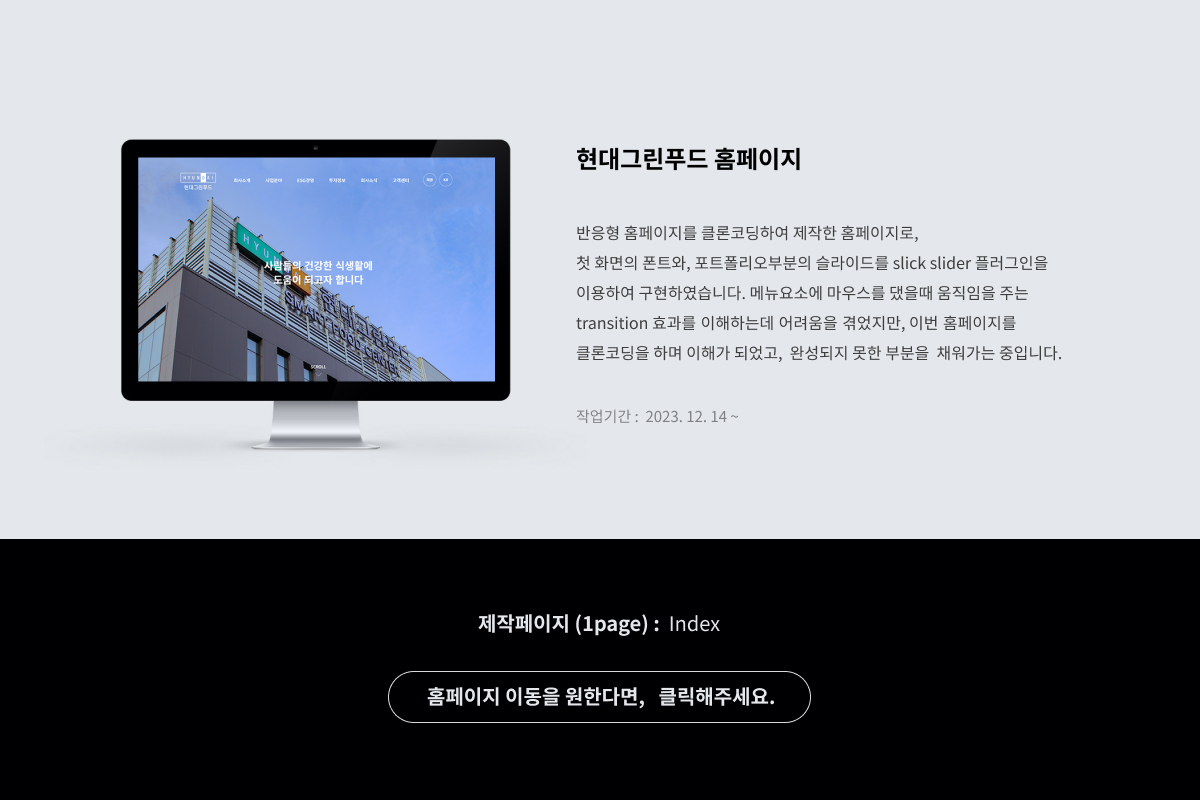
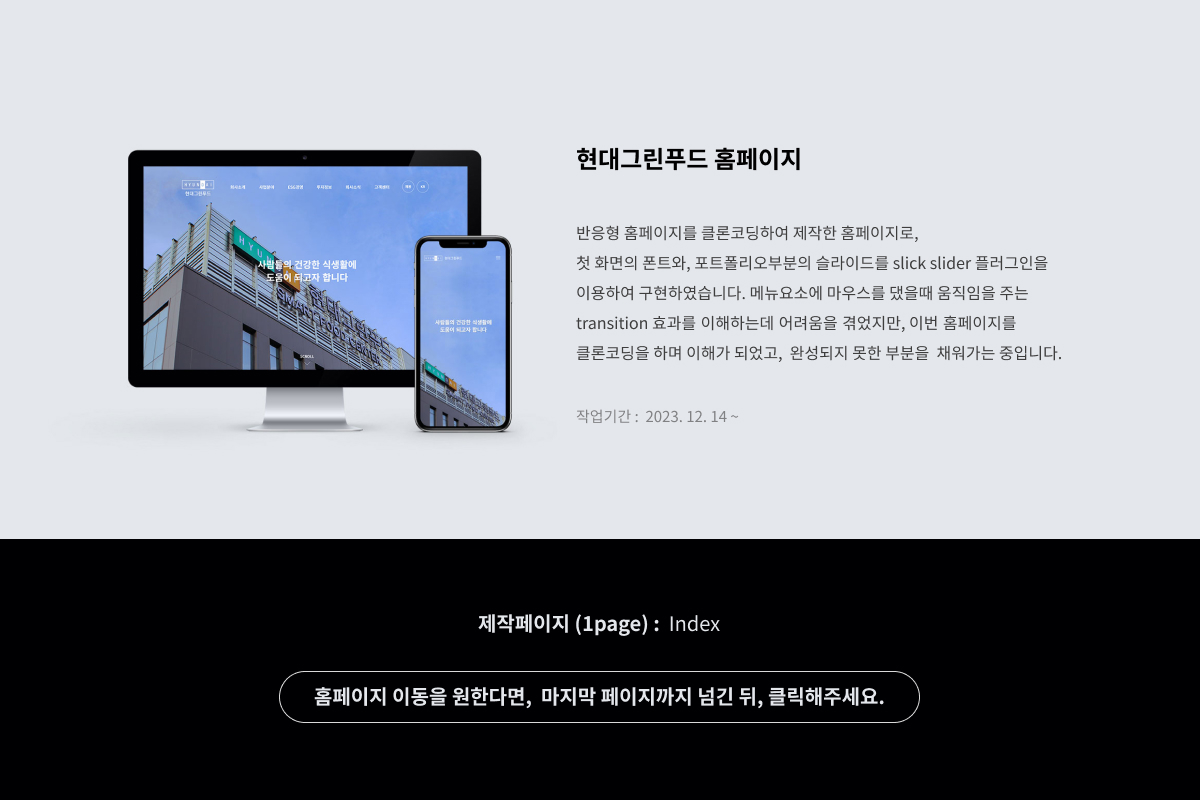
first commit

Changed region(s): [[0.0925, 0.1562, 0.4317, 0.5625], [0.2467, 0.8438, 0.74, 0.9062]]

diff --git a/index.html b/index.html
@@ -252,8 +252,11 @@
                <div class="swiper mySwiper">
                   <div class="swiper-wrapper">
                    <div class="swiper-slide"><a href="./hyendaegreen/index.html" target="_blank"><img src="./image/hyundae-0.jpg" alt=""></a></div>
+                   <div class="swiper-slide"><a href="./hyendaegreen/index.html" target="_blank"><img src="./image/hyundae-1.jpg" alt=""></a></div>
+                   <div class="swiper-slide"><a href="./hyendaegreen/index.html" target="_blank"><img src="./image/click.jpg" alt=""></a></div>
+
                  </div>
-                
+              
                </div>
            </div>
            <div class="swiper-button-next"></div>
